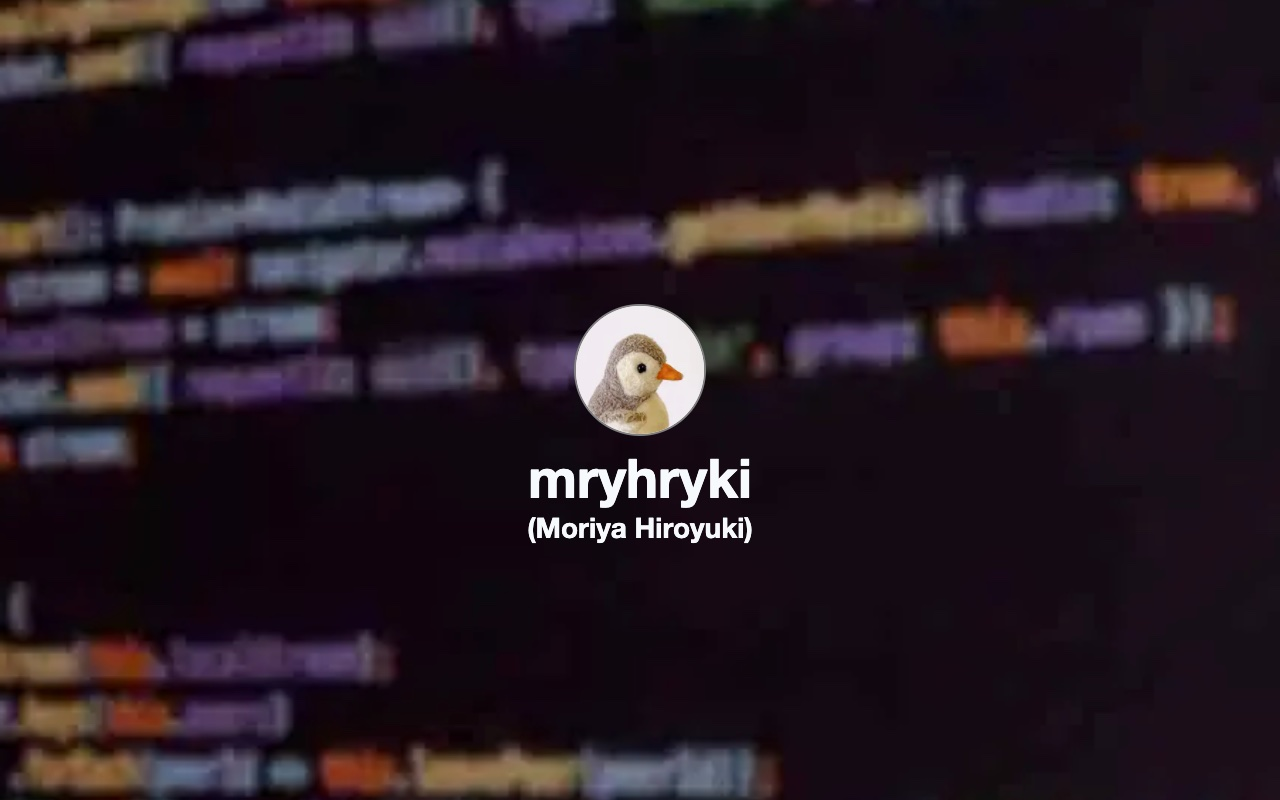
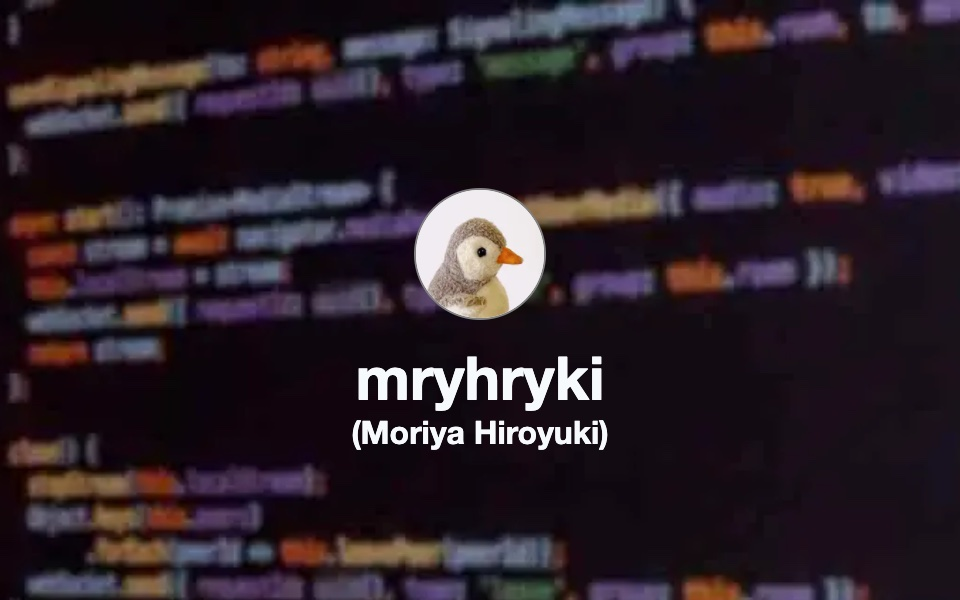
Update social share data and image

diff --git a/script/blog/template/post.ejs.html b/script/blog/template/post.ejs.html
@@ -10,16 +10,16 @@
 
   <title><%= title %></title>
   <meta property="og:title" content="<%= title %>"/>
-  <meta property="og:description" content="Web技術や個人的なメモなどを投稿しています。"/>
-  <meta property="og:image" content="https://mryhryki.com/image/icon_512x512.png"/>
+  <meta property="og:description" content="mryhryki's blog | Web技術や個人的なメモなどを投稿しています。"/>
+  <meta property="og:image" content="https://mryhryki.com/assets/image/share_image.jpg"/>
   <meta property="og:url" content="https://mryhryki.com/"/>
   <meta property="og:site_name" content="mryhryki's blog"/>
   <meta property="og:locale" content="ja-JP"/>
   <meta property="og:type" content="website"/>
   <meta name="twitter:card" content="summary"/>
   <meta name="twitter:title" content="<%= title %>"/>
-  <meta name="twitter:description" content="Web技術や個人的なメモなどを投稿しています。"/>
-  <meta name="twitter:image" content="https://mryhryki.com/image/icon_512x512.png"/>
+  <meta name="twitter:description" content="mryhryki's blog | Web技術や個人的なメモなどを投稿しています。"/>
+  <meta name="twitter:image" content="https://mryhryki.com/assets/image/share_image.jpg"/>
   <meta name="twitter:site" content="@mryhryki"/>
 
   <link rel="preconnect" href="https://fonts.gstatic.com">

diff --git a/script/blog/template/index.ejs.html b/script/blog/template/index.ejs.html
@@ -7,16 +7,16 @@
 
   <title>mryhryki's blog</title>
   <meta property="og:title" content="mryhryki's blog"/>
-  <meta property="og:description" content="ブログという名のメモ置き場。"/>
-  <meta property="og:image" content="https://mryhryki.com/image/icon_512x512.png"/>
+  <meta property="og:description" content="Web技術や個人的なメモなどを投稿しています。"/>
+  <meta property="og:image" content="https://mryhryki.com/assets/image/share_image.jpg"/>
   <meta property="og:url" content="https://mryhryki.com/"/>
   <meta property="og:site_name" content="mryhryki's blog"/>
   <meta property="og:locale" content="ja-JP"/>
   <meta property="og:type" content="website"/>
   <meta name="twitter:card" content="summary"/>
   <meta name="twitter:title" content="mryhryki's blog"/>
-  <meta name="twitter:description" content="ブログという名のメモ置き場。"/>
-  <meta name="twitter:image" content="https://mryhryki.com/image/icon_512x512.png"/>
+  <meta name="twitter:description" content="Web技術や個人的なメモなどを投稿しています。"/>
+  <meta name="twitter:image" content="https://mryhryki.com/assets/image/share_image.jpg"/>
   <meta name="twitter:site" content="@mryhryki"/>
 
   <link rel="preconnect" href="https://fonts.gstatic.com">

diff --git a/site/index.html b/site/index.html
@@ -112,6 +112,15 @@
           margin: 0 8px;
       }
 
+      .my-id {
+          line-height: 1.1;
+      }
+
+      .my-name {
+          font-size: 16px;
+          line-height: 20px;
+      }
+
       .social-links {
           text-align: center;
       }
@@ -288,8 +297,8 @@
           <source type="image/png" srcset="./assets/image/icon_180x180.png">
           <img class="profile-icon" src="./assets/image/icon_180x180.png" alt="profile icon">
         </picture>
-        <br>
-        Moriya Hiroyuki
+        <div class="my-id">mryhryki</div>
+        <div class="my-name">(Moriya Hiroyuki)</div>
       </h1>
       <div style="flex:1;"></div>
       <div class="social-links">
